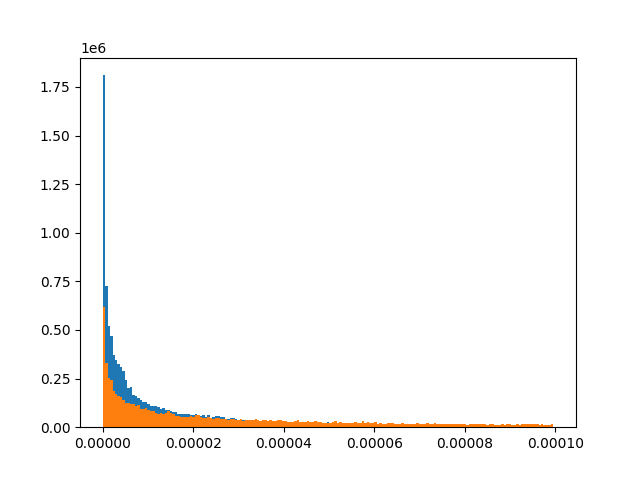
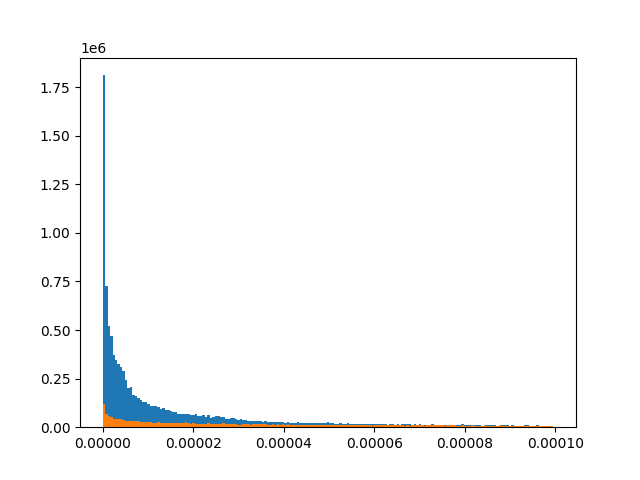
face area plot working

diff --git a/face_area_plots.py b/face_area_plots.py
@@ -1,0 +1,18 @@
+import pandas as pd
+import matplotlib.pyplot as plt
+import numpy as np
+from os import path
+
+def plot_face_area(dataset_original, dataset_remeshed):
+    if not path.exists("csv/{}_face_area.csv".format(dataset_original.folder_name_dataset)) and not path.exists("csv/{}_face_area.csv".format(dataset_remeshed.folder_name_dataset)):
+        dataset_original.write_face_area_csv()
+        print("Writing very big face area csv")
+        dataset_remeshed.write_face_area_csv()
+        print("Writing another very big face area csv")
+
+    df = pd.read_csv("csv/{}_face_area.csv".format(dataset_original.folder_name_dataset))
+    df2 = pd.read_csv("csv/{}_face_area.csv".format(dataset_remeshed.folder_name_dataset))
+    plt.hist(df, bins=np.arange(0, 1e-4, 5.5e-7))
+    plt.hist(df2, bins=np.arange(0, 1e-4, 5.5e-7))
+    plt.savefig("resample_plots/face_areas")
+    plt.show()

diff --git a/main.py b/main.py
@@ -1,11 +1,7 @@
 
 import sys
 from dataset import Dataset
-#from resample import resample
-#from normalize import normalize
-#from matplotlib import pyplot as plt
-#import pickle
-#import numpy as np
+import face_area_plots
 
 if __name__ == "__main__":
     dataset_original = Dataset("Princeton", write_basic_csv = False, write_other_csv = False)
@@ -14,6 +10,10 @@ if __name__ == "__main__":
     dataset_remeshed_normalized = Dataset("Princeton_remeshed_normalized", write_basic_csv = False, write_other_csv = False)
     dataset_remeshed_normalized.resample()
     dataset_remeshed_normalized.normalize()
+
+    # takes a while to run and makes big files
+    #face_area_plots.plot_face_area(dataset_original, dataset_remeshed)
+
 
 
 
